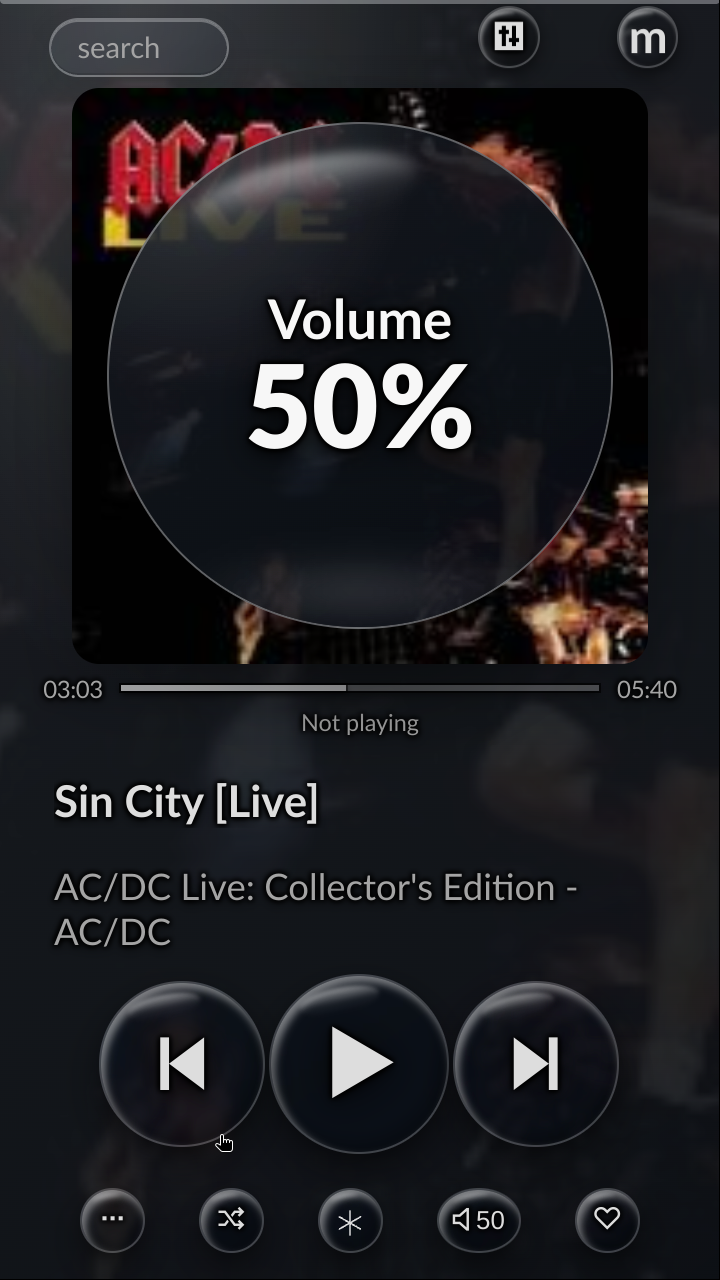
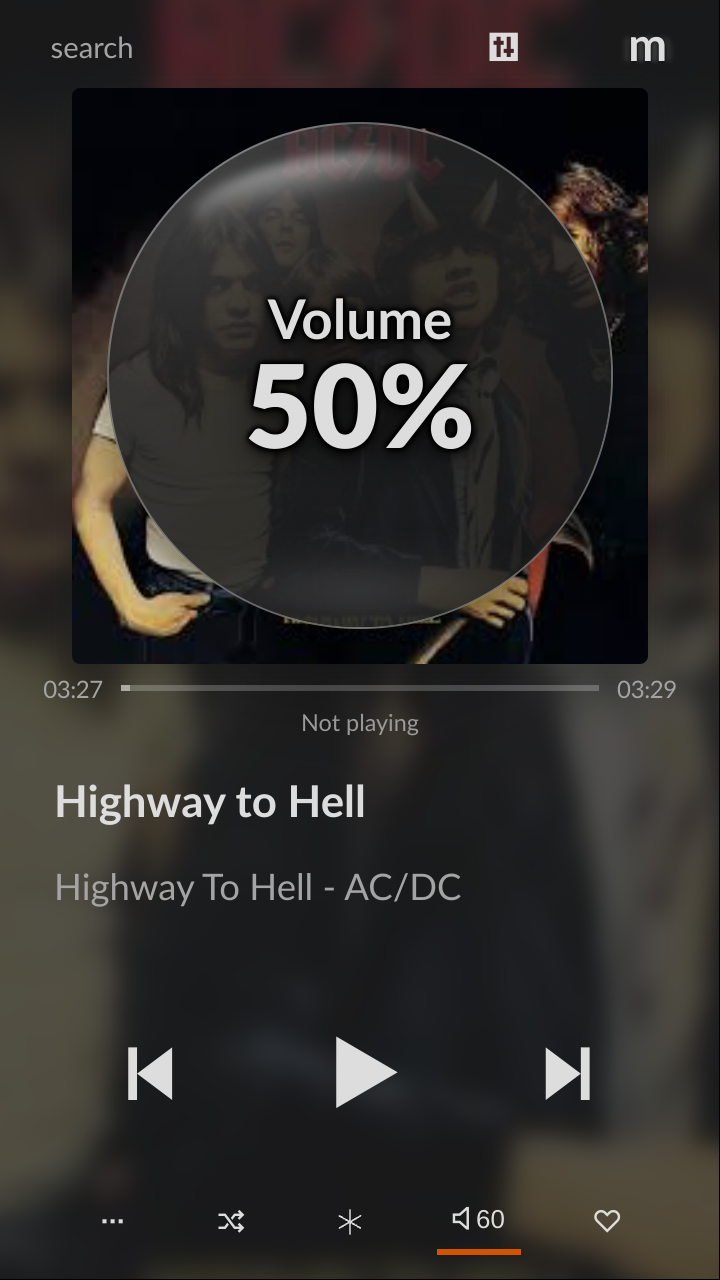
SiriRemote: theme-coloured overlay, no Dark Glass references
The browser overlay's fill and text colour follow the selected moOde theme
(background at 90 % and text colour, light text shadow for light themes);
rim and highlights stay neutral. Documentation no longer refers to the
Dark Glass theme, and the screenshots are retaken with moOde's Default theme.

diff --git a/SiriRemote/moode-navigation/siri-remote-navigation.js b/SiriRemote/moode-navigation/siri-remote-navigation.js
@@ -86,7 +86,7 @@
             display: flex;
             align-items: center;
             justify-content: center;
-            color: rgba(255,255,255,.97);
+            color: var(--siri-overlay-text, rgba(255,255,255,.97));
             text-align: center;
             font-family: Lato, sans-serif;
             border: 1px solid rgba(255,255,255,.32);
@@ -116,7 +116,7 @@
         }
         #siri-browser-overlay .siri-overlay-glass,
         #siri-browser-overlay .siri-overlay-lens::before {
-            background-color: rgba(16,19,24,.90);
+            background-color: var(--siri-overlay-fill, rgba(16,19,24,.90));
             background-image:
                 radial-gradient(ellipse at 18% 0, rgba(255,255,255,.15), transparent 38%),
                 linear-gradient(145deg, rgba(255,255,255,.055), rgba(8,10,14,.18));
@@ -159,11 +159,11 @@
             justify-content: center;
             gap: .04em;
             text-shadow:
-                -1px -1px 2px rgba(0,0,0,.92),
-                 1px -1px 2px rgba(0,0,0,.92),
-                -1px  1px 2px rgba(0,0,0,.92),
-                 1px  1px 2px rgba(0,0,0,.92),
-                 0 2px 7px rgba(0,0,0,.78);
+                -1px -1px 2px var(--siri-overlay-shadow, rgba(0,0,0,.92)),
+                 1px -1px 2px var(--siri-overlay-shadow, rgba(0,0,0,.92)),
+                -1px  1px 2px var(--siri-overlay-shadow, rgba(0,0,0,.92)),
+                 1px  1px 2px var(--siri-overlay-shadow, rgba(0,0,0,.92)),
+                 0 2px 7px var(--siri-overlay-shadow, rgba(0,0,0,.78));
             filter: drop-shadow(0 2px 9px rgba(0,0,0,.50));
         }
         #siri-browser-overlay .siri-overlay-label {
@@ -400,8 +400,24 @@
         return names[rawName] || rawName;
     }
 
+    // The overlay's fill and text follow the selected moOde theme
+    // (Preferences > Appearance); the glass rim and highlights stay neutral.
+    function applyThemeColors(overlay) {
+        let theme = null;
+        try { theme = THEME.json[SESSION.json.themename]; } catch (error) { theme = null; }
+        if (!theme || !theme.bg_color || !theme.tx_color) return;
+        const text = String(theme.tx_color).replace(/^#/, '');
+        const hex = text.length === 3 ? text.split('').map((c) => c + c).join('') : text;
+        const light = parseInt(hex.slice(0, 2), 16) >= 128;   // light text: dark theme
+        overlay.style.setProperty('--siri-overlay-fill', `rgba(${theme.bg_color}, .90)`);
+        overlay.style.setProperty('--siri-overlay-text', `#${hex}`);
+        overlay.style.setProperty('--siri-overlay-shadow',
+            light ? 'rgba(0,0,0,.92)' : 'rgba(255,255,255,.85)');
+    }
+
     function renderOverlay(text) {
         const overlay = ensureOverlay();
+        applyThemeColors(overlay);
         const content = overlayContent();
         content.replaceChildren();
         const normalized = String(text || '').trim().toUpperCase();

diff --git a/SiriRemote/test_siri_remote_moode.py b/SiriRemote/test_siri_remote_moode.py
@@ -888,7 +888,7 @@ class X11OverlayTests(unittest.TestCase):
             0x606060,
         )
 
-    def test_overlay_colors_match_dark_glass_theme(self):
+    def test_overlay_colors_and_glass_parameters(self):
         self.assertEqual(remote.X11Overlay.MOODE_GREY, 0x101318)
         self.assertEqual(remote.X11Overlay.MOODE_TEXT, (240 / 255.0,) * 3)
         self.assertEqual(remote.X11Overlay.OVERLAY_OPACITY, 0.90)

diff --git a/SiriRemote/moode-navigation/patch_header.py b/SiriRemote/moode-navigation/patch_header.py
@@ -10,7 +10,7 @@ from pathlib import Path
 
 BEGIN = "<!-- BEGIN SIRI REMOTE LIBRARY NAVIGATION -->"
 END = "<!-- END SIRI REMOTE LIBRARY NAVIGATION -->"
-ASSET_VERSION = 10
+ASSET_VERSION = 11
 SOURCE_ANCHOR = re.compile(r'^\s*<script src="js/scripts-panels\.js(?:\?[^\"]*)?" defer></script>\s*$')
 BUILT_ANCHOR = re.compile(r'^\s*<script src="js/main\.min\.js(?:\?[^\"]*)?" defer></script>\s*$')
 

diff --git a/SiriRemote/readme.md b/SiriRemote/readme.md
@@ -2,8 +2,8 @@
 
 This guide describes how to reproduce a working Siri Remote setup for moOde Audio on a Raspberry Pi, including discovering the Bluetooth MAC address, pairing the remote, testing the moOde REST API, and installing the daemon.
 
-<img width="720" height="1280" alt="Current moOde dark-glass volume overlay" src="assets/moode-volume-overlay.png" />
-<br><sub>Current moOde Playback view with the dark-glass volume overlay generated by the Siri Remote daemon.</sub><br><br>
+<img width="720" height="1280" alt="Current moOde glass volume overlay" src="assets/moode-volume-overlay.png" />
+<br><sub>Current moOde Playback view with the glass volume overlay generated by the Siri Remote daemon.</sub><br><br>
 
 All the code and documentation is generated by Codex based on the following GitHub repo's:
 
@@ -396,7 +396,7 @@ Previous/Next behavior.
   <img width="350" alt="Current touchpad focus inside the optimized Album view" src="assets/siri-navigation-album.png" />
   <img width="350" alt="Current selection in the compact Library source chooser" src="assets/siri-navigation-library-source.png" />
 </p>
-<sub>Current local interface with the optional Dark Glass theme. Left: directional touchpad focus in the square-cover Album view. Right: the Library source chooser after a double press on Menu/Back, focused on the active source with the same row highlight used for pointer or keyboard focus in a network browser.</sub>
+<sub>Current local interface. Left: directional touchpad focus in the square-cover Album view. Right: the Library source chooser after a double press on Menu/Back, focused on the active source with the same row highlight used for pointer or keyboard focus in a network browser.</sub>
 
 The first-generation touch area is decoded in both axes. Swipe distance and
 average speed are combined into bounded momentum: a deliberate short swipe
@@ -449,12 +449,9 @@ receive it, so their clicks, taps, menus, and scrolling remain entirely native
 moOde behavior. A matching JavaScript guard provides defence in depth. Only
 the local kiosk receives the Siri Remote focus and inactivity handling.
 
-General moOde styling is deliberately not part of SiriRemote. The separately
-installable [DarkGlassTheme](../%5Bunmaintained%5D/DarkGlassTheme/readme.md) provides the
-transparent Playback controls, cover/background presentation, optimized
-Library rendering, and tint-free remote focus visible in the screenshots.
-Touchpad navigation also works with moOde's standard themes; without Liquid
-Glass it uses moOde's normal accent colour for the focus marker.
+General moOde styling is deliberately not part of SiriRemote. Touchpad
+navigation works with moOde's standard themes and uses the theme's accent
+colour for the focus marker.
 
 At startup the script waits for X11 and first synchronizes the UI to Playback.
 It installs no additional package or configuration file. Library navigation is
@@ -470,10 +467,11 @@ existing local Chromium page renders a one-second circular overlay. It installs
 no compositor or additional package. The current cover is enlarged inside the
 circle and combined with restrained highlights, directional inset shadows, a
 thin partially transparent white rim, and a one-pixel backdrop blur to create
-the tint-free dark-glass lens while leaving the artwork and its original
-colours readable underneath. The overlay is self-contained and works with
-every moOde theme. Its proportions match the optional Dark Glass controls
-when that separate theme is selected.
+a glass lens. The overlay is self-contained and works with every moOde
+theme: its fill and text colour follow the theme selected in
+**Preferences → Appearance** (the theme's background colour at 90 % and its
+text colour, with a light text shadow for light themes), while the rim and
+highlights stay neutral.
 Regular-weight labels and bold primary values match the visual hierarchy of
 the moOde interface. A single rim avoids a doubled white outline. All overlay
 text uses the same multidirectional contrast shadow as moOde's metadata, while
@@ -724,5 +722,5 @@ python3 -m unittest test_patch_header.py
 ```
 
 The screenshots in this guide were recaptured from the installed 720 × 1280
-local display after the current daemon, navigation script and Dark Glass
-theme had been installed.
+local display after the current daemon and navigation script had been
+installed.

diff --git a/SiriRemote/DesignChoices[inDutch].md b/SiriRemote/DesignChoices[inDutch].md
@@ -171,25 +171,12 @@ niet weten welke knop de wake-up veroorzaakte. Dankzij de begrensde reconnect en
 de supervisietijd van 2000 ms blijven de volgende knoppen wel reageren; na het
 verbinden toont een volgende druk op Microfoon/Siri de batterijstand.
 
-## Optioneel los Dark Glass-thema
+## Geen algemene vormgeving
 
 Algemene vormgeving van moOde hoort niet bij de verantwoordelijkheid van de
-Siri Remote-daemon. Deze CSS/JavaScript is daarom verplaatst naar het zelfstandig
-installeerbare [DarkGlassTheme](../%5Bunmaintained%5D/DarkGlassTheme/readme.md). Het thema
-registreert zichzelf in moOde's bestaande themakiezer en kan ook zonder
-SiriRemote worden gebruikt.
-
-SiriRemote bevat alleen nog de functionele navigatiefocus en zijn ronde
-feedbackoverlay. Met een standaard moOde-thema gebruikt de focus de normale
-accentkleur. Dark Glass geeft dezelfde focus optioneel een tintvrije glaslaag
-met witte rand. De feedbackoverlay blijft in SiriRemote, werkt met ieder thema
-en is qua verhoudingen afgestemd op Dark Glass wanneer dat thema actief is.
-
-Het JavaScript van Dark Glass bewaakt alleen nog de actieve themakeuze en of
-de Library zichtbaar is. De eerdere, inmiddels door CSS uitgeschakelde route
-die afzonderlijke coveruitsneden in iedere knop projecteerde is verwijderd.
-Daardoor doet scrollen en resizen geen overbodige geometrie- of DOM-berekening
-meer, terwijl de uiteindelijke vormgeving gelijk blijft.
+Siri Remote-daemon. SiriRemote bevat alleen de functionele navigatiefocus en
+zijn ronde feedbackoverlay. De focus gebruikt de accentkleur van het gekozen
+moOde-thema; de feedbackoverlay is zelfstandig en werkt met ieder thema.
 
 ## Schermoverlay
 
